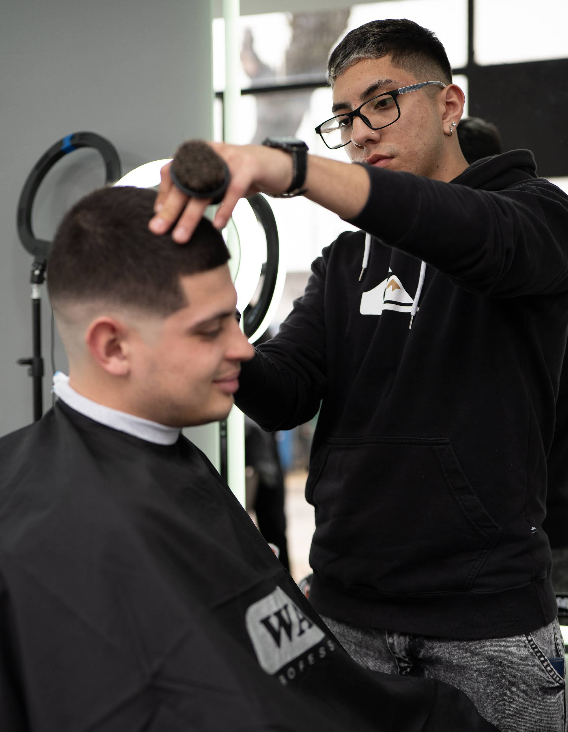
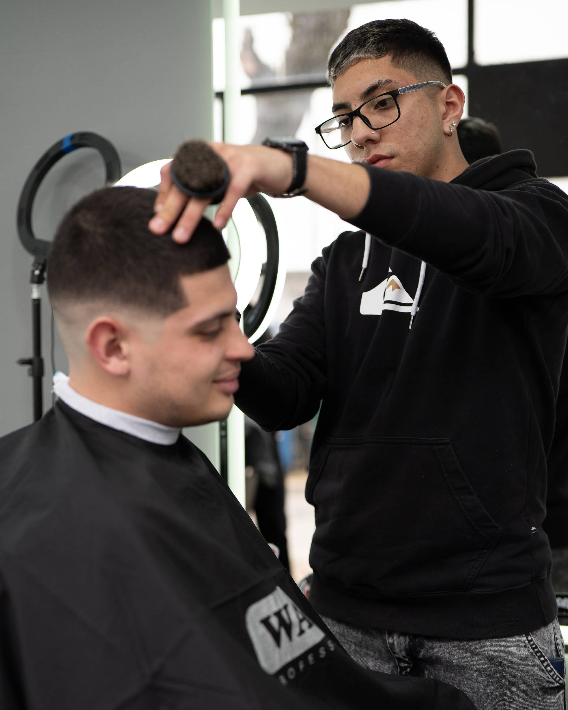
Recorta fotos del equipo a la misma proporcion, centra texto, mas espacio
rodrigo.png y valentin.png recortados a 4:5 exacto (antes tenian
proporciones distintas, se veian a escalas distintas dentro del mismo
marco). Nombre/handle centrados debajo de cada foto, mas separacion
entre las dos columnas.

diff --git a/src/app/page.tsx b/src/app/page.tsx
@@ -155,9 +155,9 @@ export default function Home() {
               La familia OG
             </h2>
           </Reveal>
-          <div className="mt-14 grid sm:grid-cols-2 gap-8 max-w-2xl mx-auto">
+          <div className="mt-14 grid sm:grid-cols-2 gap-16 max-w-3xl mx-auto">
             {EQUIPO.map((m, i) => (
-              <Reveal key={m.handle} delay={i * 80}>
+              <Reveal key={m.handle} delay={i * 80} className="text-center">
                 <FramedPhoto src={m.img} alt={m.nombre} aspect="aspect-[4/5]" className="!border-ink-50/15" />
                 <p className="font-display text-2xl mt-5">{m.nombre}</p>
                 <a
